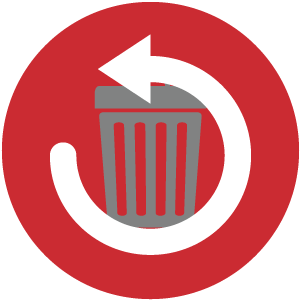
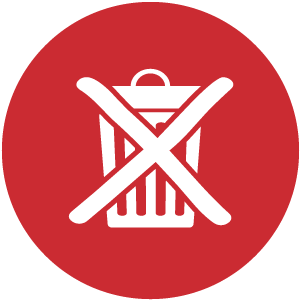
Tweaks to undo Team/Game.  Also adjusted nameWithSeason logic to ignore teams with any hint of a year.

Changed region(s): [[0.15, 0.12, 0.84, 0.87]]

diff --git a/UltimateWeb/war/js/admin.js b/UltimateWeb/war/js/admin.js
@@ -221,13 +221,14 @@ function updateTeamsList(teams) {
 			var team = getTeam(Ultimate.itemToDeleteId);
 			if (team.deleted) {
 				undeleteTeam(Ultimate.itemToDeleteId, function() {
+					alert('Team restored');
 					resetCacheBuster();
-					alert('Team un-deleted');
 					$.mobile.changePage('#mainpage', {transition: 'pop'});
 				},handleRestError);
 			} else {
 				Ultimate.deleteConfirmedFn = function() {
 					deleteTeam(Ultimate.itemToDeleteId, function() {
+						alert("Team deleted.  You may undo the deletion at any time");
 						resetCacheBuster();
 						$.mobile.changePage('#mainpage', {transition: 'pop'});
 					},handleRestError);
@@ -286,12 +287,15 @@ function populateGamesList() {
 			var game = getGame(Ultimate.itemToDeleteId);
 			if (game.deleted) {
 				undeleteGame(Ultimate.teamId, Ultimate.itemToDeleteId, function() {
-					alert("Game undeleted");
+					alert("Game restored");
+					resetCacheBuster();
 					$.mobile.changePage('#teamsettingspage?team=' + Ultimate.teamId, {transition: 'pop'});
 				},handleRestError);
 			} else {
 				Ultimate.deleteConfirmedFn = function() {
 					deleteGame(Ultimate.teamId, Ultimate.itemToDeleteId, function() {
+						alert("Game deleted.  You may undo the deletion at any time");
+						resetCacheBuster();
 						$.mobile.changePage('#teamsettingspage?team=' + Ultimate.teamId, {transition: 'pop'});
 					},handleRestError);
 				};

diff --git a/UltimateWeb/war/css/custom.css b/UltimateWeb/war/css/custom.css
@@ -261,3 +261,9 @@
 .deleted-entity {
   text-decoration:line-through  !important;
 }
+
+.teamDeleteButton, .gameDeleteButton {
+   margin-left: 6px;
+   margin-top: 3px;
+}
+

diff --git a/UltimateWeb/src/com/summithill/ultimate/model/Team.java b/UltimateWeb/src/com/summithill/ultimate/model/Team.java
@@ -43,7 +43,7 @@ public class Team extends ModelObject {
 	
 	public String getNameWithSeason() {
 		String name = getName();
-		if (!name.matches(".*201[0-9].*")) {
+		if (!name.matches(".*1[0-9].*")) {
 			String season = getSeason();
 			if (season.length() > 0) {
 				name = name + " " + season;
